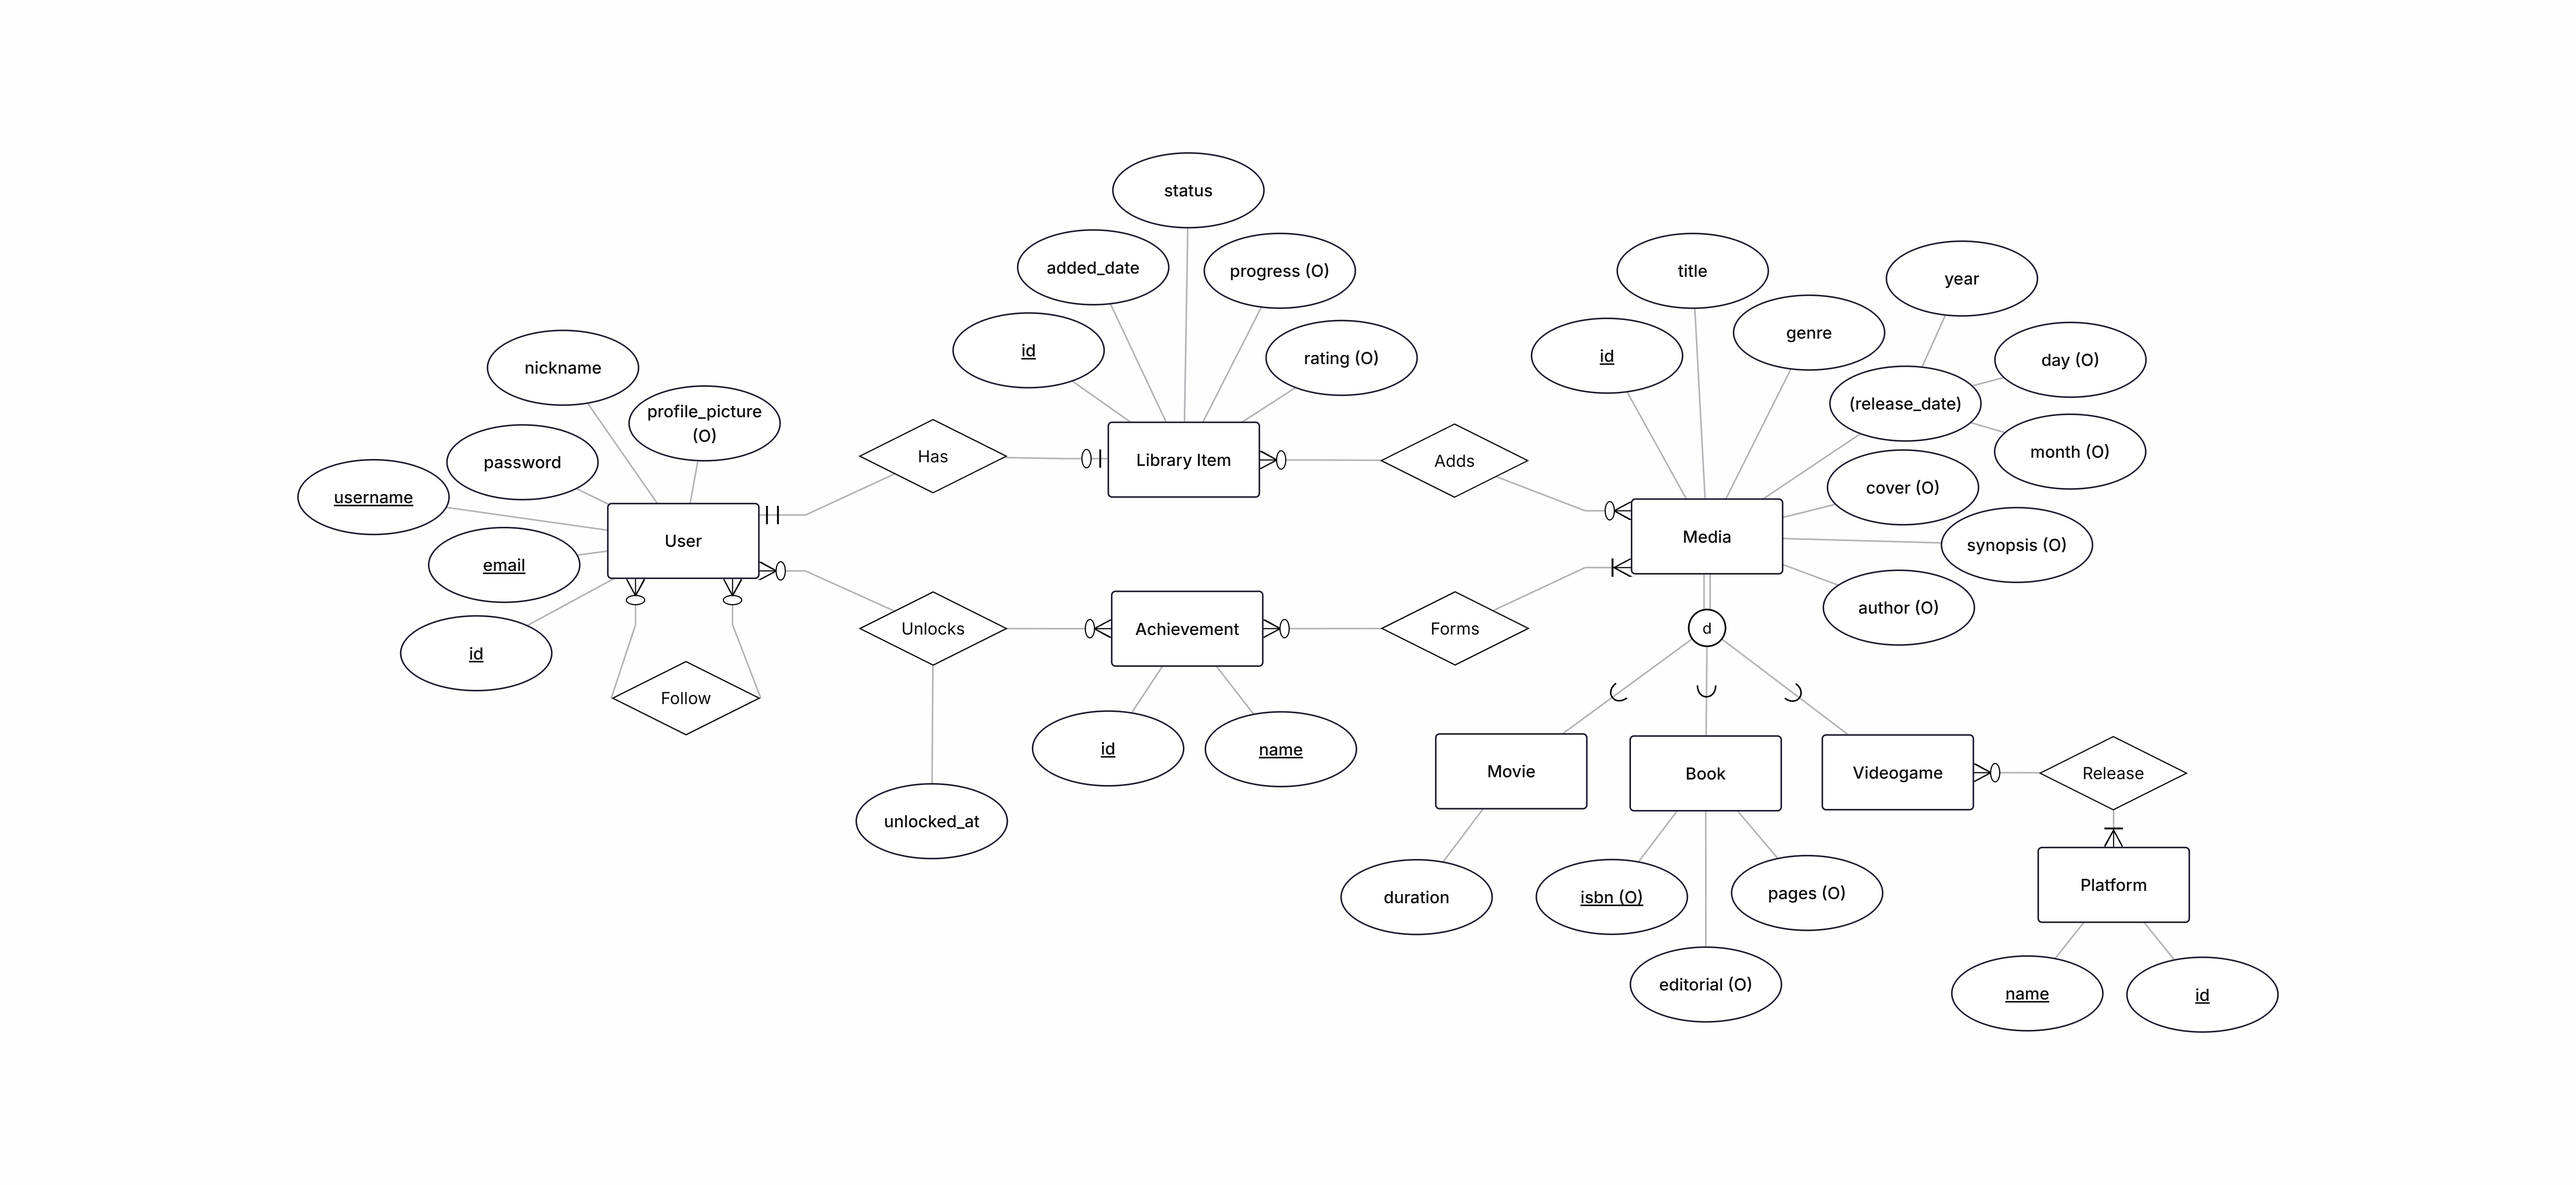
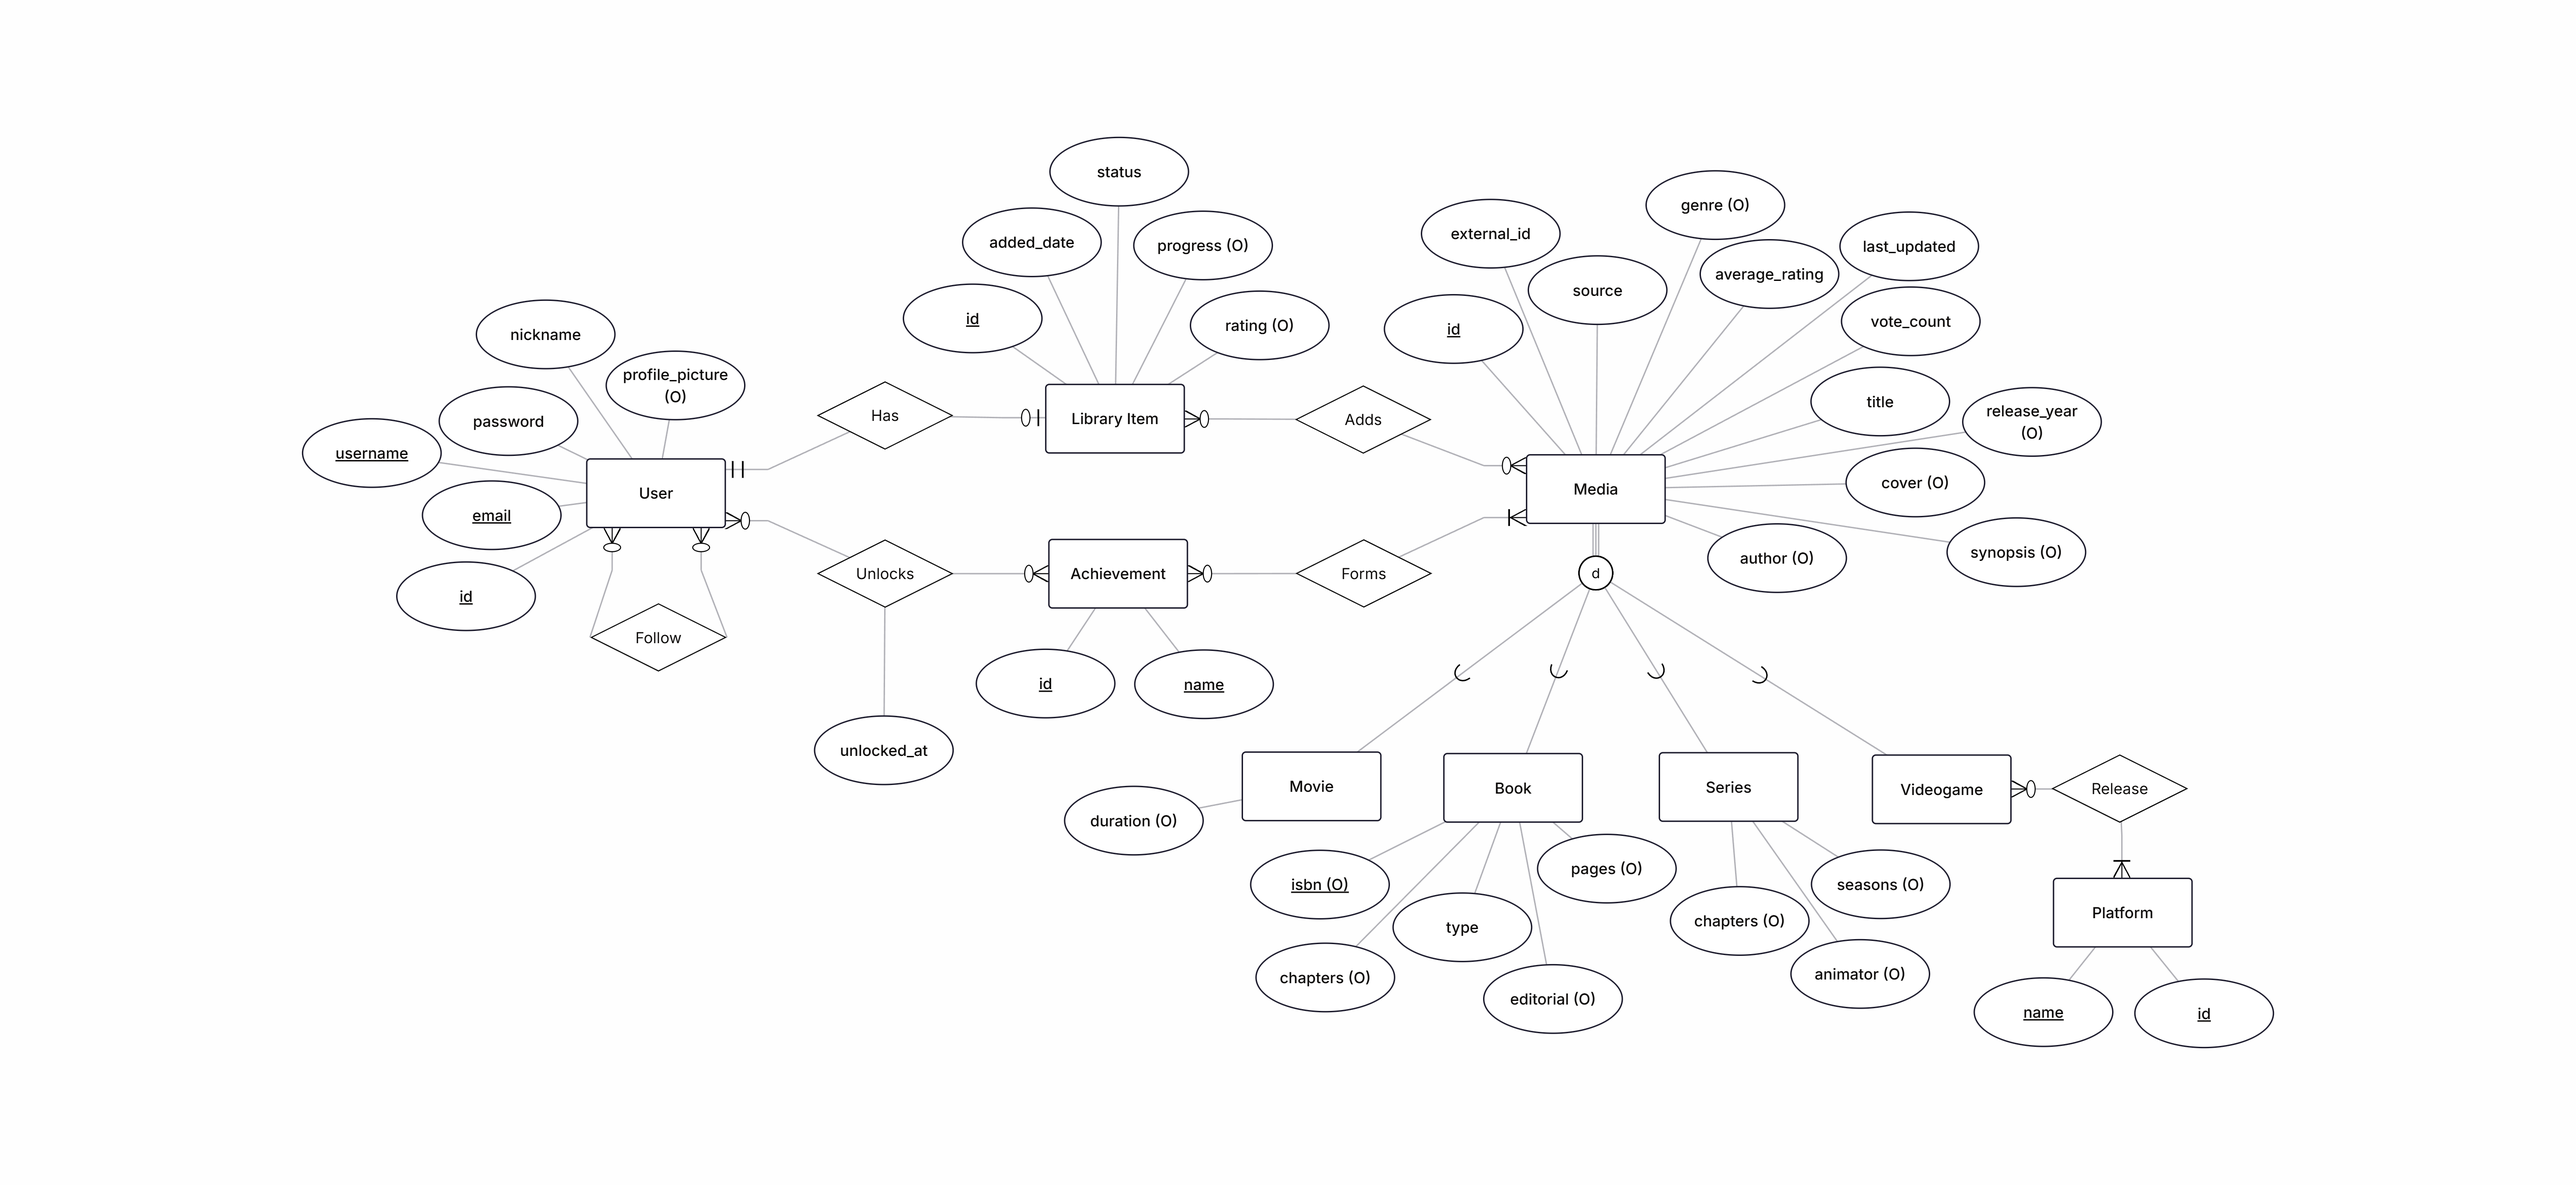
Cambiado Readme y añadido Diccionario de datos

diff --git a/MDs/fase4/DiccionarioDatos.md b/MDs/fase4/DiccionarioDatos.md
@@ -1,0 +1,116 @@
+# Diccionario de datos 
+
+En este diccionario de datos se puede encontrar los campos de cada tabla de la base de datos con su información y una descripción sobre el propósito de dicho campo.
+
+### 1\. Tabla: `users`
+
+| Columna Java | Columna SQL | Tipo de Dato Java | Tipo de Dato SQL | Restricciones | Nulo | Descripción |
+| :--- | :--- | :--- | :--- | :--- | :--- | :--- |
+| `id` | `id` | `Long` | `BIGINT` | PK | NO | Identificador único del usuario. |
+| `username` | `username` | `String` | `VARCHAR(50)` | UNIQUE | NO | Nombre único para identificar usuarios. |
+| `nickname` | `nickname` | `String` | `VARCHAR(50)` | | NO | Nombre visible o apodo. |
+| `email` | `email` | `String` | `VARCHAR(100)` | UNIQUE | NO | Correo electrónico. |
+| `password` | `password` | `String` | `VARCHAR(255)` | | NO | Contraseña hasheada. |
+| `profilePicture` | `profile_picture` | `String` | `VARCHAR(255)` | | SÍ | URL de la imagen de perfil. |
+
+### 2\. Tabla: `follows`
+
+| Columna Java | Columna SQL | Tipo de Dato Java | Tipo de Dato SQL | Restricciones | Nulo | Descripción |
+| :--- | :--- | :--- | :--- | :--- | :--- | :--- |
+| | `follower_id` | `Long` | `BIGINT` | PK, FK (users), UNIQUE (con followed\_id) | NO | Usuario que sigue a otro. |
+| | `followed_id` | `Long` | `BIGINT` | PK, FK (users), UNIQUE (con follower\_id) | NO | Usuario que es seguido. |
+
+### 3\. Tabla: `medias`
+
+| Columna Java | Columna SQL | Tipo de Dato Java | Tipo de Dato SQL | Restricciones | Nulo | Descripción |
+| :--- | :--- | :--- | :--- | :--- | :--- | :--- |
+| `id` | `id` | `Long` | `BIGINT` | PK | NO | ID único del contenido. |
+| | `dtype` | `String` | `VARCHAR(31)` | | NO | Discriminador (Movie, Book, etc.). Se genera automáticamente. |
+| `externalId` | `external_id` | `String` | `VARCHAR(100)` | UNIQUE (con source) | NO | ID original de la API externa. |
+| `source` | `source` | `SourceEnum` | `VARCHAR(20)` | UNIQUE (con external\_id) | NO | Proveedor (TMDB, IGDB...). |
+| `lastUpdated` | `last_updated` | `LocalDateTime` | `TIMESTAMP` | | NO | Momento en el que se actualizó por última vez la información. |
+| `title` | `title` | `String` | `VARCHAR(255)` | | NO | Título de la obra. |
+| `coverUrl` | `cover_url` | `String` | `VARCHAR(255)` | | SÍ | URL de la portada. |
+| `averageRating` | `average_rating` | `Double` | `FLOAT` | | SÍ | Puntuación promedio global. |
+| `voteCount` | `vote_count` | `Integer` | `INT` | DEFAULT 0 | NO | Cantidad total de votos. |
+| `description` | `description` | `String` | `TEXT` | | SÍ | Sinopsis o resumen. |
+| `releaseYear` | `release_year` | `Integer` | `INT` | | SÍ | Año de lanzamiento. |
+| `creator` | `creator` | `String` | `VARCHAR(100)` | | SÍ | Autor, Director o Desarrollador. |
+| `genre` | `genre` | `String` | `VARCHAR(100)` | | SÍ | Género principal. |
+
+### 4\. Tabla: `movies`
+
+| Columna Java | Columna SQL | Tipo de Dato Java | Tipo de Dato SQL | Restricciones | Nulo | Descripción |
+| :--- | :--- | :--- | :--- | :--- | :--- | :--- |
+| `id` | `id` | `Long` | `BIGINT` | PK, FK (medias) | NO | Referencia a la tabla Media. |
+| `duration` | `duration` | `Integer` | `INT` | | SÍ | Duración en minutos. |
+
+### 5\. Tabla: `books`
+
+| Columna Java | Columna SQL | Tipo de Dato Java | Tipo de Dato SQL | Restricciones | Nulo | Descripción |
+| :--- | :--- | :--- | :--- | :--- | :--- | :--- |
+| `id` | `id` | `Long` | `BIGINT` | PK, FK (medias) | NO | Referencia a la tabla Media. |
+| `bookType` | `book_type` | `BookTypeEnum` | `VARCHAR(20)` | | NO | Novel, Manga o Comic. |
+| `isbn` | `isbn` | `String` | `VARCHAR(20)` | | SÍ | Identificador ISBN. |
+| `pages` | `pages` | `Integer` | `INT` | | SÍ | Número de páginas. |
+| `editorial` | `editorial` | `String` | `VARCHAR(100)` | | SÍ | Editorial publicadora. |
+| `chapters` | `chapters` | `Integer` | `INT` | | SÍ | Capítulos (para mangas). |
+
+### 6\. Tabla: `series`
+
+| Columna Java | Columna SQL | Tipo de Dato Java | Tipo de Dato SQL | Restricciones | Nulo | Descripción |
+| :--- | :--- | :--- | :--- | :--- | :--- | :--- |
+| `id` | `id` | `Long` | `BIGINT` | PK, FK (Media) | NO | Referencia a la tabla Media. |
+| `seasons` | `seasons` | `Integer` | `INT` | | SÍ | Cantidad de temporadas. |
+| `chapters` | `chapters` | `Integer` | `INT` | | SÍ | Total de episodios. |
+| `animator` | `animator` | `String` | `VARCHAR(100)` | | SÍ | Estudio (solo Anime). |
+
+### 7\. Tabla: `platforms`
+
+| Columna Java | Columna SQL | Tipo de Dato Java | Tipo de Dato SQL | Restricciones | Nulo | Descripción |
+| :--- | :--- | :--- | :--- | :--- | :--- | :--- |
+| `id` | `id` | `Long` | `BIGINT` | PK | NO | ID de la plataforma. |
+| `name` | `name` | `String` | `VARCHAR(50)` | | NO | Nombre (PC, Xbox, etc.). |
+
+### 8\. Tabla: `games_platforms`
+
+| Columna Java | Columna SQL | Tipo de Dato Java | Tipo de Dato SQL | Restricciones | Nulo | Descripción |
+| :--- | :--- | :--- | :--- | :--- | :--- | :--- |
+| | `media_id` | `Long` | `BIGINT` | PK, FK (medias), UNIQUE (con platform\_id) | NO | ID del videojuego. |
+| | `platform_id` | `Long` | `BIGINT` | PK, FK (platforms), UNIQUE (con media\_id) | NO | ID de la plataforma. |
+
+### 9\. Tabla: `library_items`
+
+| Columna Java | Columna SQL | Tipo de Dato Java | Tipo de Dato SQL | Restricciones | Nulo | Descripción |
+| :--- | :--- | :--- | :--- | :--- | :--- | :--- |
+| `id` | `id` | `Long` | `BIGINT` | PK | NO | ID del registro. |
+| `userId` | `user_id` | `Long` | `BIGINT` | FK (users), UNIQUE (con media\_id) | NO | Usuario propietario. |
+| `mediaId` | `media_id` | `Long` | `BIGINT` | FK (medias), UNIQUE (con user\_id) | NO | Contenido guardado. |
+| `status` | `status` | `StatusEnum` | `VARCHAR(20)` | | NO | Pending, Watching, Completed... |
+| `rating` | `rating` | `Integer` | `INT` | | SÍ | Nota del 0 al 10. |
+| `progress` | `progress` | `Integer` | `INT` | | SÍ | Porcentaje, pág o cap actual. |
+| `addedDate` | `added_date` | `LocalDate` | `DATE` | | NO | Fecha de añadido a la lista. |
+| `completedDate` | `completed_date` | `LocalDate` | `DATE` | | SÍ | Fecha de finalización. |
+
+### 10\. Tabla: `achievements`
+
+| Columna Java | Columna SQL | Tipo de Dato Java | Tipo de Dato SQL | Restricciones | Nulo | Descripción |
+| :--- | :--- | :--- | :--- | :--- | :--- | :--- |
+| `id` | `id` | `Long` | `BIGINT` | PK | NO | ID del logro. |
+| `name` | `name` | `String` | `VARCHAR(100)` | | NO | Nombre del logro. |
+| `description` | `description` | `String` | `VARCHAR(255)` | | SÍ | Cómo conseguirlo. |
+
+### 11\. Tabla: `users_achievements`
+
+| Columna Java | Columna SQL | Tipo de Dato Java | Tipo de Dato SQL | Restricciones | Nulo | Descripción |
+| :--- | :--- | :--- | :--- | :--- | :--- | :--- |
+| `userId` | `user_id` | `Long` | `BIGINT` | PK, FK (users), UNIQUE (con achievement\_id) | NO | Usuario ganador. |
+| `achievementId` | `achievement_id` | `Long` | `BIGINT` | PK, FK (achievements), UNIQUE (con user\_id) | NO | Logro desbloqueado. |
+| `unlockedAt` | `unlocked_at` | `LocalDate` | `DATE` | | NO | Momento exacto del logro. |
+
+### 12\. Tabla: `medias_achievements`
+
+| Columna Java | Columna SQL | Tipo de Dato Java | Tipo de Dato SQL | Restricciones | Nulo | Descripción |
+| :--- | :--- | :--- | :--- | :--- | :--- | :--- |
+| | `achievement_id` | `Long` | `BIGINT` | PK, FK (achievements), UNIQUE (con media\_id) | NO | El logro que requiere este contenido. |
+| | `media_id` | `Long` | `BIGINT` | PK, FK (medias), UNIQUE (con achievement\_id) | NO | El contenido necesario para el logro. |

diff --git a/README.md b/README.md
@@ -2,7 +2,7 @@
 
 ## Sobre el proyecto
 
-MediaLibrary es un proyecto para que la gente pueda guardar y puntuar sus listas de películas, libros y videojuegos y compartirlas con sus amigos.
+MediaLibrary es un proyecto para que la gente pueda guardar y puntuar su lista de películas, series, animes, libros, comics y videojuegos que han vistoy, leído y/o jugado y compartirla con sus amigos.
 
 El proyecto consiste en una API que será utilizada por un cliente web y un cliente móvil. La API servirá para consumir datos externos de otras APIs, almacenar y gestionar la información de la base de datos y suministrar la información a los clientes.
 
@@ -19,6 +19,12 @@ El proyecto consiste en una API que será utilizada por un cliente web y un clie
 ## Links
 
 Algunos links con más información respecto al proyecto:
+
+### Repositorios principales del Proyecto
+
+- [Aplicación Web](https://github.com/JEDS-Company/Web_MediaLibrary.git)
+- [Aplicación Móvil](https://github.com/JEDS-Company/App_MediaLibrary.git)
+- [API](https://github.com/JEDS-Company/API_MediaLibrary.git)
 
 
 #### Fase de Planteamiento ❓
@@ -37,7 +43,9 @@ Algunos links con más información respecto al proyecto:
 - [Inventario de Contenidos](/MDs/fase3/DiagramaEntidadRelacion.md)
 - [Diagrama de Casos de Uso](/MDs/fase3/CasosDeUso.md)
 - [Diagrama Entidad-Relación Extendido](/MDs/fase3/DiagramaEntidadRelacion.md)
-- [Diagrama de Clases](/MDs/fase3/DiagramaClases.md)
 - [Arbol de Navegación](/MDs/fase3/ArbolNavegacion.md)
 - [WireFrame y Mokup](/MDs/fase3/WireframeMockup.md)
 - [Design System y Justificación](/MDs/fase3/DesignSystem.md)
+
+#### Fase de Implementación 🛠
+
